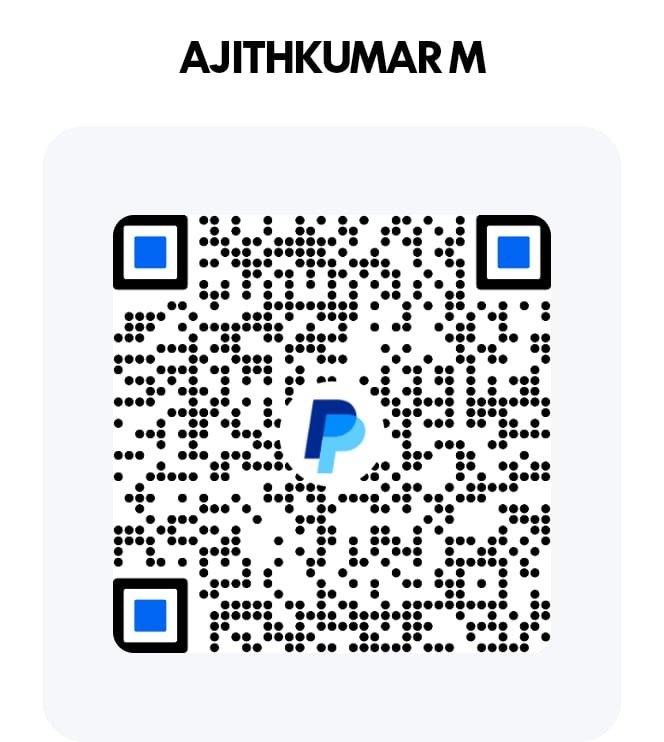
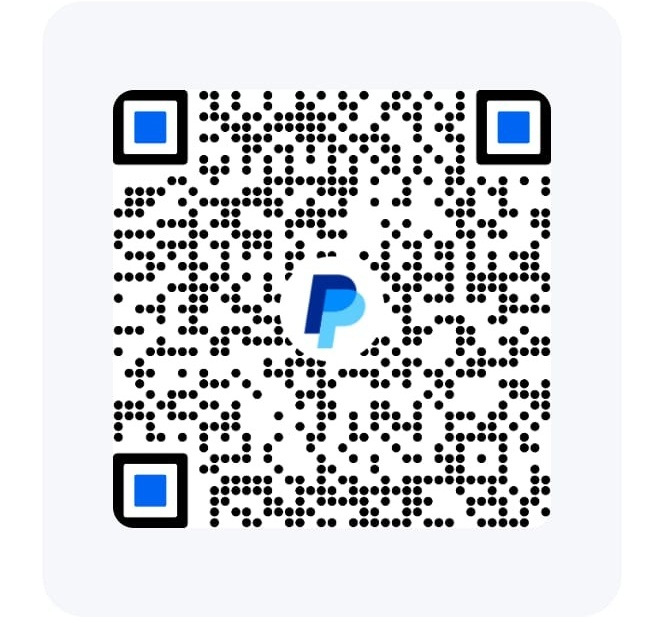
feat: remove personal name from PayPal QR code and payment UI

Changed region(s): [[0.1506, 0.0308, 0.8434, 0.893]]

diff --git a/kanjoo-frontend/src/app/pro/page.tsx b/kanjoo-frontend/src/app/pro/page.tsx
@@ -289,7 +289,7 @@ export default function ProPage() {
                     <div className="relative p-2.5 rounded-2xl bg-white shadow-2xl flex-shrink-0">
                       <img
                         src="/paypal-qr.jpg"
-                        alt="AJITHKUMAR M PayPal QR Code"
+                        alt="Official PayPal QR Code"
                         className="w-36 h-36 rounded-xl object-contain"
                       />
                       <div className="absolute -bottom-2 left-1/2 -translate-x-1/2 px-2.5 py-0.5 rounded-full bg-[#0070BA] text-white text-[9px] font-extrabold tracking-wider shadow">
@@ -301,7 +301,7 @@ export default function ProPage() {
                         <Sparkles className="w-3.5 h-3.5" />
                         <span>Direct Scan & Pay with PayPal</span>
                       </div>
-                      <h4 className="text-base font-bold text-white">Recipient: AJITHKUMAR M</h4>
+                      <h4 className="text-base font-bold text-white">KANJOO Official PayPal Merchant</h4>
                       <p className="text-xs text-slate-300 mt-1 max-w-sm">
                         Scan this official PayPal QR code with your mobile camera or PayPal app to transfer <strong>$1.00 USD</strong> (or your local equivalent <strong>{pricing?.formatted || '$1.00'}</strong>).
                       </p>
@@ -332,7 +332,7 @@ export default function ProPage() {
                 <div className="flex flex-col sm:flex-row items-center justify-between gap-4 pt-2 text-xs text-slate-400">
                   <div className="flex items-center gap-1.5">
                     <ShieldCheck className="w-4 h-4 text-brand-cyan" />
-                    <span>Account Recipient: <strong>AJITHKUMAR M (billing@kanjoo.ai)</strong></span>
+                    <span>Account Recipient: <strong>KANJOO Billing (billing@kanjoo.ai)</strong></span>
                   </div>
                   {!isPro && (
                     <button
